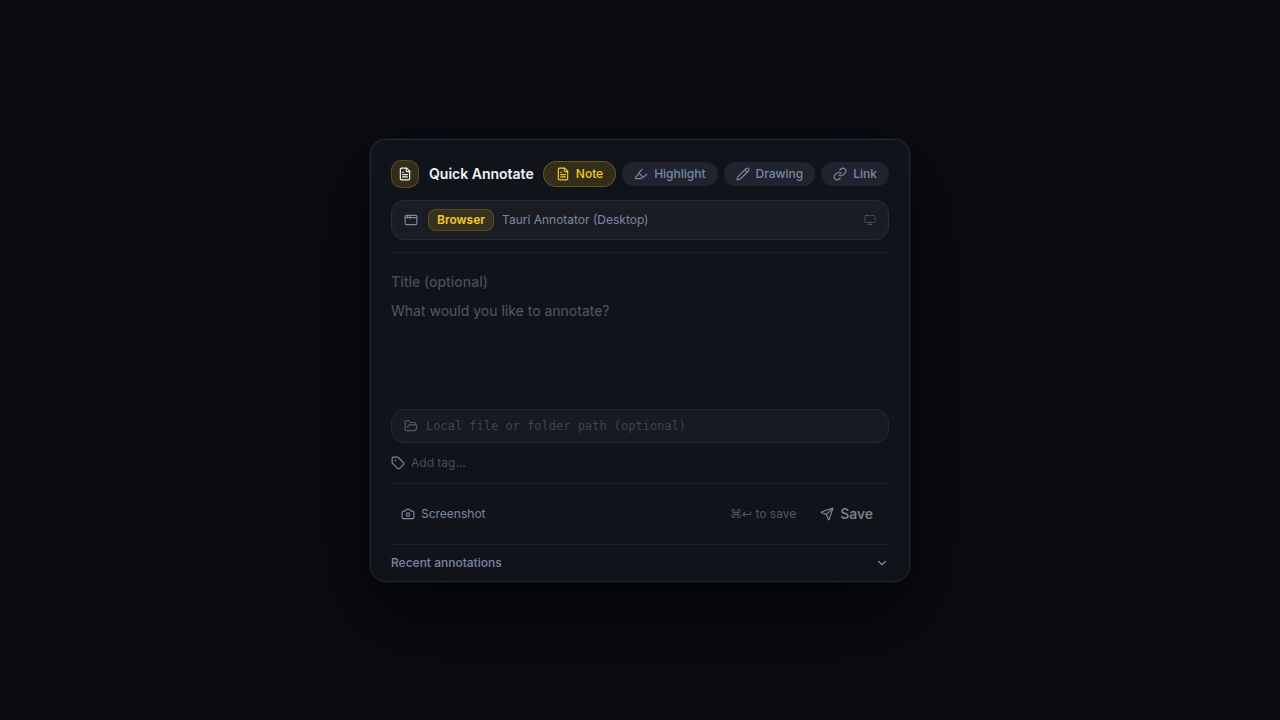
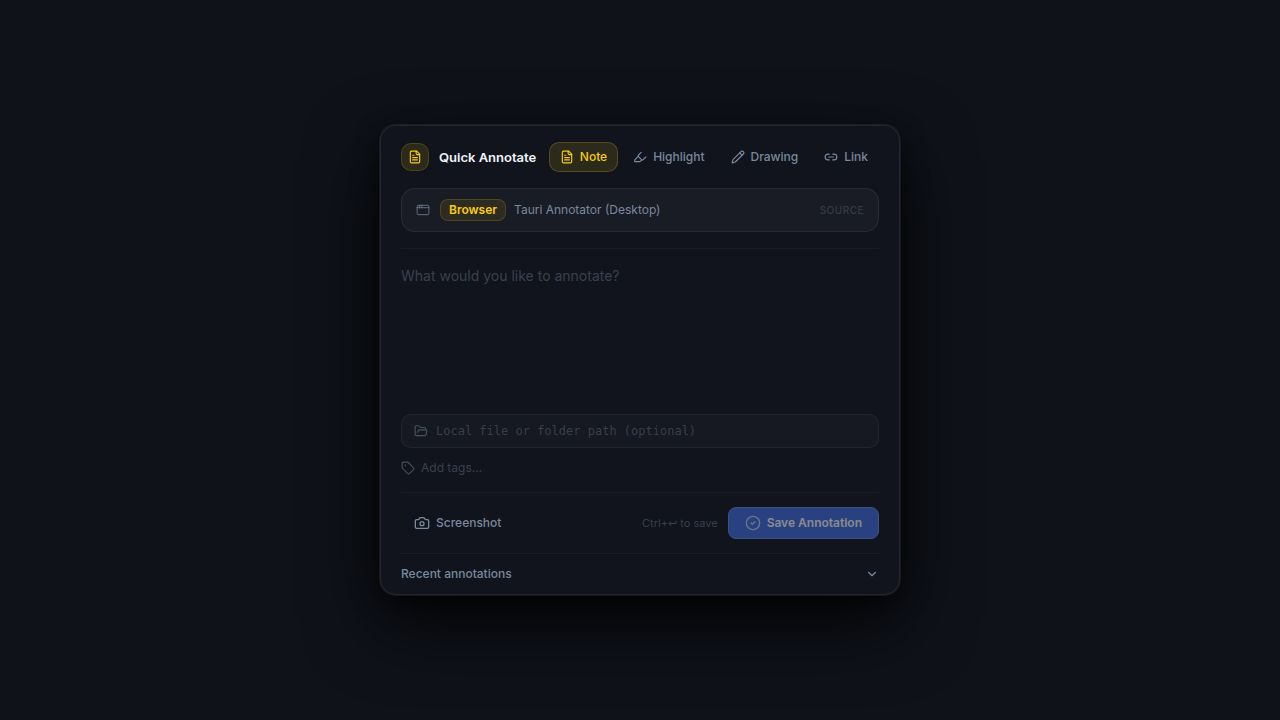
Improve popup behavior and add dismiss functionality for previews
Introduce a dismissible popup state with animations and a fallback for web previews. Add a document-level keydown listener for Escape key to trigger dismissal, and allow reopening by clicking the fallback UI.

Replit-Commit-Author: Agent
Replit-Commit-Session-Id: 9189056b-4d66-4b56-917a-30d6119b523f
Replit-Commit-Checkpoint-Type: full_checkpoint
Replit-Commit-Event-Id: b93edbd3-0660-44e4-8654-2d414512ee9d
Replit-Commit-Screenshot-Url: https://storage.googleapis.com/screenshot-production-us-central1/7fb33dd0-2984-4f06-a3fc-9d679f0602f8/9189056b-4d66-4b56-917a-30d6119b523f/H5NoB03
Replit-Helium-Checkpoint-Created: true

diff --git a/artifacts/tauri-annotator/src/pages/Popup.tsx b/artifacts/tauri-annotator/src/pages/Popup.tsx
@@ -170,9 +170,38 @@ export default function Popup() {
   const [showRecent, setShowRecent] = useState(false);
   const [isLoadingRecent, setIsLoadingRecent] = useState(false);
   const [showPermissionBanner, setShowPermissionBanner] = useState(false);
+  const [dismissed, setDismissed] = useState(false);
 
   const activeCfg = TYPES.find((t) => t.id === type)!;
   const platform = getPlatform();
+
+  // ── Dismiss helper (works in both Tauri and web preview) ──────────────────
+
+  const dismiss = useCallback(() => {
+    if (isTauri()) {
+      hideWindow();
+    } else {
+      setDismissed(true);
+    }
+  }, []);
+
+  const reopen = useCallback(() => {
+    setDismissed(false);
+    setTimeout(() => textareaRef.current?.focus(), 60);
+  }, []);
+
+  // ── Document-level Escape listener ────────────────────────────────────────
+
+  useEffect(() => {
+    const onKeyDown = (e: KeyboardEvent) => {
+      if (e.key === "Escape") {
+        e.preventDefault();
+        dismiss();
+      }
+    };
+    document.addEventListener("keydown", onKeyDown);
+    return () => document.removeEventListener("keydown", onKeyDown);
+  }, [dismiss]);
 
   // ── Boot sequence ──────────────────────────────────────────────────────────
 
@@ -334,21 +363,16 @@ export default function Popup() {
     setType("text");
   }
 
-  // Global keyboard handler for the popup card
+  // Card-level keyboard handler (Escape is handled at document level)
   const handleKeyDown = (e: React.KeyboardEvent) => {
     if ((e.metaKey || e.ctrlKey) && e.key === "Enter") {
       e.preventDefault();
       handleSave();
     }
-    if (e.key === "Escape") {
-      hideWindow();
-    }
   };
 
   // Click the translucent backdrop to dismiss
-  const handleBackdropClick = () => {
-    if (isTauri()) hideWindow();
-  };
+  const handleBackdropClick = () => dismiss();
 
   const placeholder =
     type === "link"
@@ -367,9 +391,26 @@ export default function Popup() {
       style={{ background: "transparent" }}
       onClick={handleBackdropClick}
     >
+      <AnimatePresence mode="wait">
+        {dismissed ? (
+          /* Web-preview dismissed state — click anywhere to reopen */
+          <motion.button
+            key="dismissed"
+            initial={{ opacity: 0, scale: 0.9 }}
+            animate={{ opacity: 1, scale: 1 }}
+            exit={{ opacity: 0, scale: 0.9 }}
+            transition={{ duration: 0.15 }}
+            onClick={(e) => { e.stopPropagation(); reopen(); }}
+            className="text-xs text-muted-foreground/50 hover:text-muted-foreground transition-colors px-4 py-2 rounded-xl border border-border/30 hover:border-border/60"
+          >
+            Press Ctrl+Shift+L to open · click to preview
+          </motion.button>
+        ) : (
       <motion.div
+        key="popup"
         initial={{ opacity: 0, scale: 0.95, y: -10 }}
         animate={{ opacity: 1, scale: 1, y: 0 }}
+        exit={{ opacity: 0, scale: 0.96, y: -6 }}
         transition={{ duration: 0.18, ease: [0.16, 1, 0.3, 1] }}
         className="w-full max-w-[520px] rounded-2xl overflow-hidden glass-panel"
         style={{
@@ -733,6 +774,8 @@ export default function Popup() {
           )}
         </AnimatePresence>
       </motion.div>
+        )}
+      </AnimatePresence>
     </div>
   );
 }
